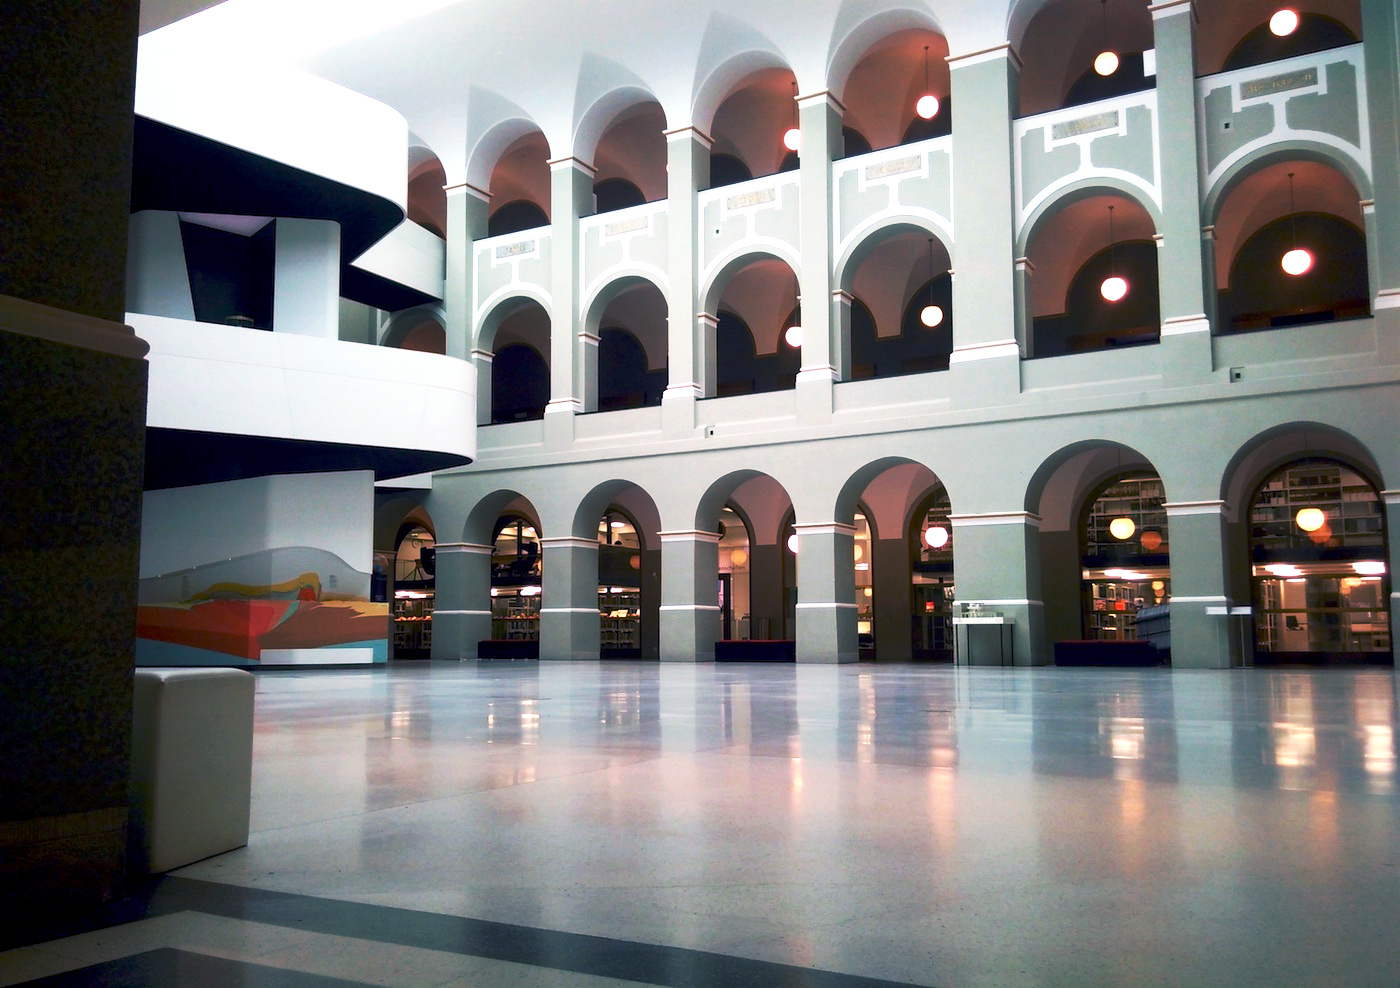
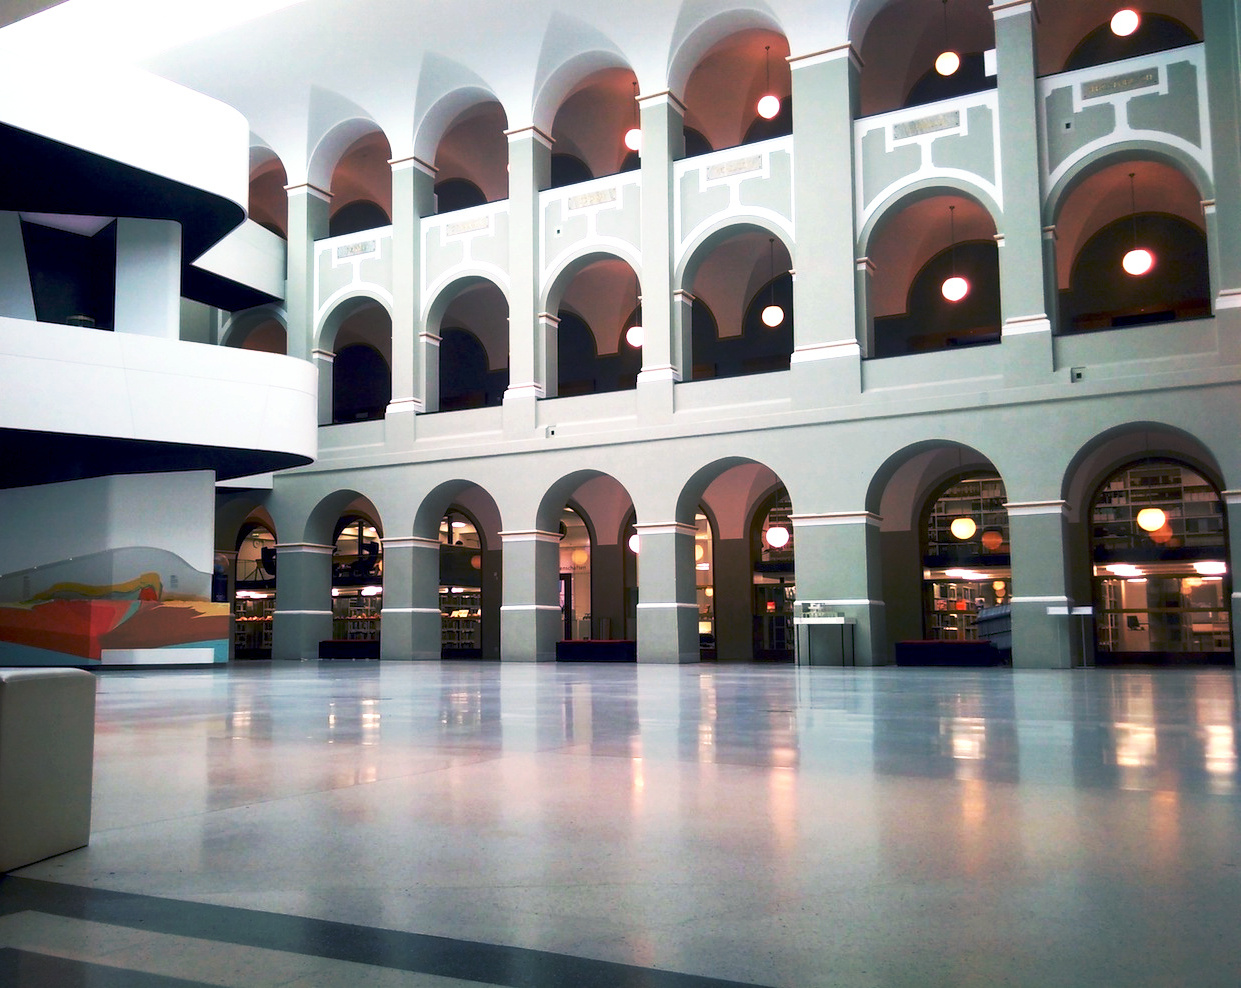
Some information about the Zurich and the venue

diff --git a/location.md b/location.md
@@ -4,49 +4,68 @@ title: "Next stop: Zürich"
 permalink: /location/
 ---
 
-<div class="backdrop" style="background: url(/assets/backdrops/zurich.jpg) 50% 80%; padding: 0; background">
+<div class="backdrop" style="background: url(/assets/zurich/30615001992_50cdc23e7b_k.jpg) 50% 40%; padding: 0; background">
   <div class="popout">
     <section>
       <h1>Welcome to Zürich</h1>
-      <p>TODO</p>
+      <p>We are very pleased to host the third edition of RustFest in Zurich, Switzerland.</p>
     </section>
   </div>
 </div>
 
 <section>
-TODO talk about zurich
+<p>
+Zurich is the largest city in Switzerland, located in the northern part of the country and and the tip of Lake Zurich. For many years, Zurich has been ranked as one of the cities with the highest quality of life in the world. With the alps just in reach on the horizon on a clear day, and a lovely old-town near the lake, it is always a great place to visit!</p>
+
+<p>While it is probably best known for being a financial hub, Zurich is also home to many technology and research endeavors: With three state universities, many tech companies ranging from small startups to large international enterprises, Zurich is a great place for developers and enthusiasts to be in.</p>
 </section>
 
 <section class="img-grid">
 
 <div>
-<img src="/assets/zurich/31221045461_e756a87f90_z.jpg">
-<img src="/assets/zurich/4567067975_70a6129cde_o.jpg">
+<img src="/assets/zurich/30615001992_50cdc23e7b_k.jpg">
 </div>
   
 </section>
 
 <section markdown="1">
 
-TODO talk about rust in zurich?
+## Travel
+
+Zürich is well connected to the rest of Europe with many direct flights and trains to other major European cities every day. The *Zurich International Airport* (**ZRH**) is located just 20 minutes outside of the city center. People looking for cheap flights might also consider flying to the *EuroAirport Basel Mulhouse*, which is 1 hour away from Zurich by train.
+
+### Entry requirements
+
+Even though Switzerland is not part of the European Union (EU), it is a member of the Schengen Agreement. EU and EEA citizens can enter Switzerland without a visa, as long as a valid ID card or passport can be presented. As usual, a visa granted for any Schengen member is valid in Switzerland as well. For more information, check out Wikivoyage on [Travelling around the Schengen Area](https://en.m.wikivoyage.org/wiki/Travelling_around_the_Schengen_Area).
 
 </section>
-
 
 <section markdown="1">
 
 ## Conference Venue
 
-TODO talk about ETH, the NO building etc
+RustFest Zurich will be hosted in the lovely *NO building* of the Swiss Federal Institute of Technology (ETH Zurich), centrally located within walking distance from Zurich Main Station. The NO building is the home of the Department of Earth Sciences and *[focusTerra](https://www.erdw.ethz.ch/en/news-events/focusterra.html)* - a free, permanent exhibition the about the geological wonders about our planet Earth.
 
-<div class="img-grid">
-<img src="/assets/zurich/venue-inside.jpg" alt="Foyer of venue at ETH">
+### Getting there
+
+The address of the venue is *[Sonneggstrasse 5, 8092 Zurich](https://goo.gl/maps/K5Zb1P8ARdE2)*.
+
+Zurich has excellent public transport - the venue can easily be reached by tram no. 6, 10 and 9 by exiting the stop "ETH/Universitätsspital". Coming from Zurich Main Station ("Zurich HB"), there is also the option to take the Polybahn funicular from "Central" to "ETH Zentrum". Look out for the *focusTerra* signs to find the NO building.
+
+A 24 hour ticket for within the city of Zurich (zone 110) costs CHF 8.80, a single tick 4.40 CHF. Traveling from the airport, you will require a ticket valid for 3 zones (single ticket 6.80 CHF).
+</section>
+
+<section class="img-grid">
+<div>
+<img src="/assets/zurich/eth-mainbuilding.jpg" alt="Main building of ETH by night">
+<img src="/assets/zurich/venue-inside.jpg" alt="Foyer of the NO building">
 </div>
-
 </section>
 
 <hr>
 
 <section style="font-size: 0.65em">
-    <p><strong>Credits:</strong> https://www.flickr.com/photos/stephen-oung/sets/72157625972849555 https://www.flickr.com/photos/lschlagenhauf/sets/72157664912678546</p>
+    <p><strong>Image Credits:</strong> <a href="https://www.flickr.com/photos/lschlagenhauf/30615001992/in/album-72157664912678546/">Zurich purple hour</a> by 
+Lukas Schlagenhauf (CC BY-ND 2.0). <a href="https://commons.wikimedia.org/wiki/File:ETH_Z%C3%BCrich_im_Abendlicht.jpg">ETH Zürich im Abendlicht</a> by ETH-Bibliothek (CC BY-SA 4.0)
+</p>
 </section>
